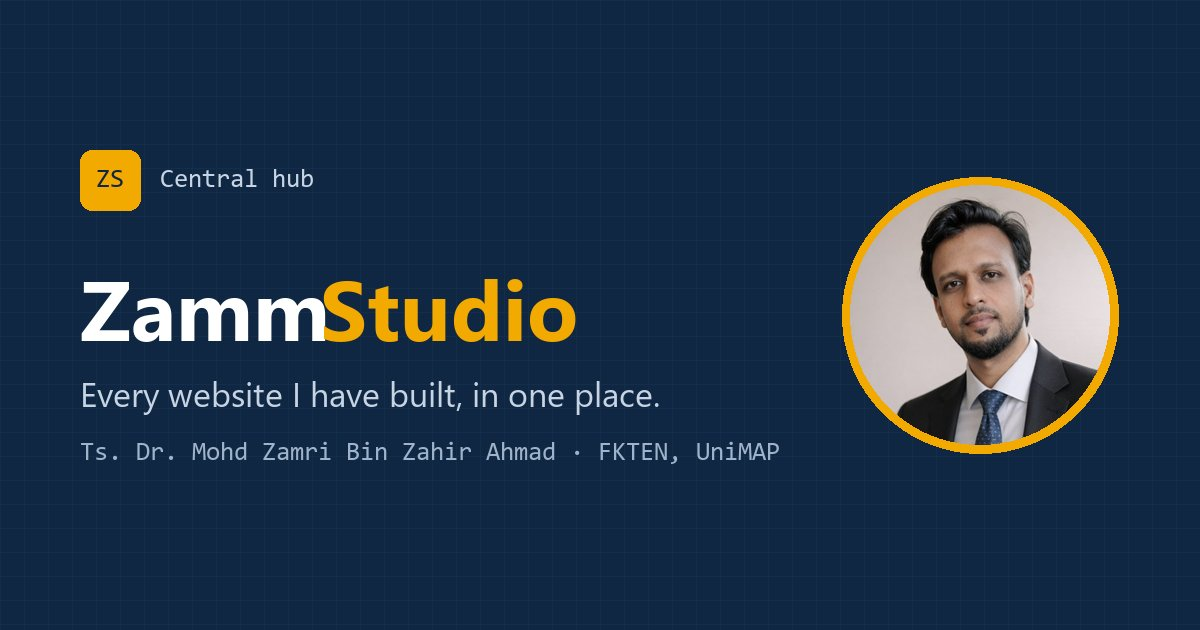
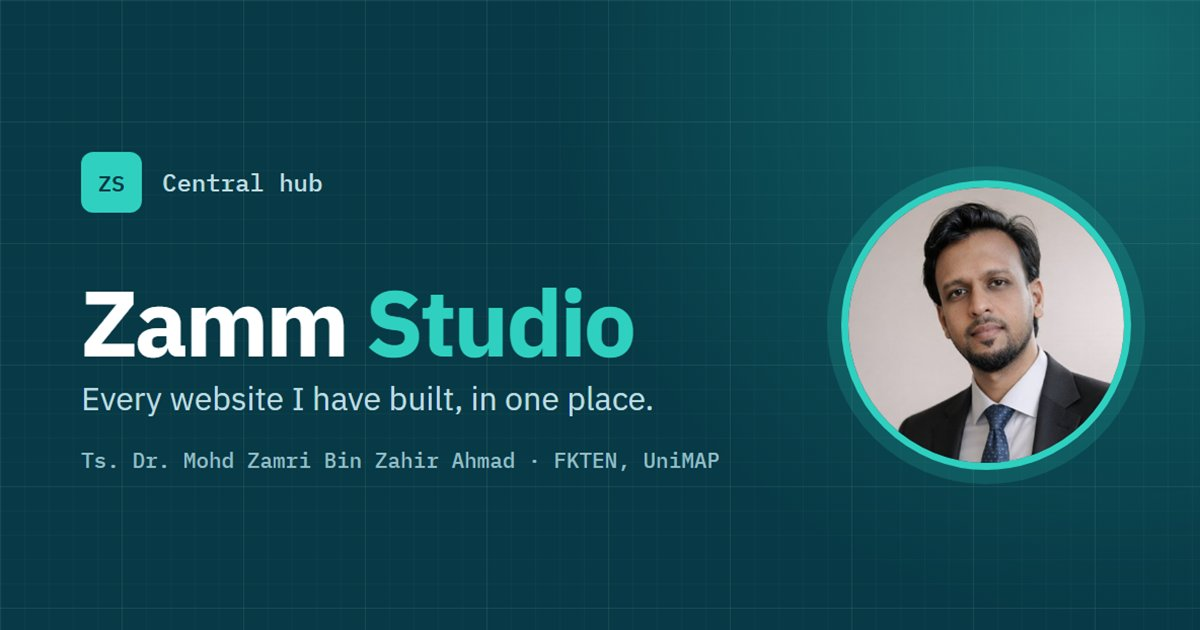
Teal-blue theme, add DPMS, FKTEN redesign and OSP sites
- Switch the hub from navy/amber to a teal-blue palette (light and dark),
  including favicon and social preview image
- Add DPMS FKTEN, FKTEN Website Redesign and OSP, with a new Prototypes
  category; refresh the NMK42003 screenshot
- Fix cards overflowing the screen on phones; keep search and sort on
  one row with category chips below; use dvh for the detail dialog

diff --git a/assets/css/style.css b/assets/css/style.css
@@ -1,12 +1,14 @@
-/* Zamm Studio — central hub styles (palette shared with aiworkshop2026) */
+/* Zamm Studio — central hub styles (teal-blue theme) */
 :root{
-  --ink:#0f2742; --ink-2:#17365a; --ink-3:#21456f;
-  --paper:#f4f7fa; --panel:#ffffff; --panel-2:#f8fafc; --line:#d7e0ea;
-  --text:#172033; --muted:#526078;
-  --blue:#1a5fd0; --blue-soft:#e3ecfb;
-  --amber:#f2a900; --amber-ink:#8a5a00; --amber-soft:#fdf1d3;
-  --shadow:0 1px 2px rgba(15,39,66,.06),0 8px 24px rgba(15,39,66,.08);
-  --shadow-lift:0 2px 4px rgba(15,39,66,.08),0 18px 40px rgba(15,39,66,.16);
+  --ink:#073a46; --ink-2:#0b4a58; --ink-3:#10606f;
+  --paper:#f1f7f8; --panel:#ffffff; --panel-2:#f6fafb; --line:#d2e3e6;
+  --text:#12262c; --muted:#4b6670;
+  --blue:#0a6f8c; --blue-soft:#ddf0f4;
+  --accent:#2fd0c0; --accent-hover:#5fdfd2; --accent-ink:#0a7a73; --accent-soft:#d6f4f0;
+  --focus:#0d9488;
+  --on-dark:#eaf6f7; --on-dark-2:#bfdbe0; --on-dark-3:#93bcc4;
+  --shadow:0 1px 2px rgba(7,58,70,.06),0 8px 24px rgba(7,58,70,.08);
+  --shadow-lift:0 2px 4px rgba(7,58,70,.08),0 18px 40px rgba(7,58,70,.16);
   --radius:14px; --radius-l:20px;
   --sans:'IBM Plex Sans',system-ui,-apple-system,'Segoe UI',Roboto,Arial,sans-serif;
   --mono:'IBM Plex Mono',ui-monospace,Menlo,Consolas,monospace;
@@ -15,35 +17,38 @@
   --c-events:#b25a00;   --c-events-bg:#fdf1d3;
   --c-systems:#188038;  --c-systems-bg:#e2f2e7;
   --c-tools:#7b3fc4;    --c-tools-bg:#efe6fb;
-  --c-profile:#0e7c86;  --c-profile-bg:#dff3f4;
+  --c-prototypes:#b4235a; --c-prototypes-bg:#fbe4ee;
+  --c-profile:#0a7a73;  --c-profile-bg:#d6f4f0;
   color-scheme:light;
 }
 @media (prefers-color-scheme:dark){
   :root:not([data-theme="light"]){
-    --paper:#0b1522; --panel:#122033; --panel-2:#0f1b2b; --line:#24364d;
-    --text:#e5ecf5; --muted:#9db0c6;
-    --blue:#7fb0ff; --blue-soft:#17304f; --amber-soft:#3a2d0c;
+    --paper:#06181d; --panel:#0c252c; --panel-2:#091e24; --line:#1b3c44;
+    --text:#e2f0f2; --muted:#95b3ba;
+    --blue:#6fd3e6; --blue-soft:#0f3640; --accent-soft:#0d3a38; --accent-ink:#2fd0c0; --focus:#2fd0c0;
     --shadow:0 1px 2px rgba(0,0,0,.3),0 8px 24px rgba(0,0,0,.3);
     --shadow-lift:0 2px 4px rgba(0,0,0,.35),0 18px 40px rgba(0,0,0,.5);
     --c-teaching:#8db8ff; --c-teaching-bg:#172d4d;
     --c-events:#ffc453;   --c-events-bg:#3a2d0c;
     --c-systems:#6fd08f;  --c-systems-bg:#133322;
     --c-tools:#c7a4ff;    --c-tools-bg:#2a1c45;
-    --c-profile:#6fd6de;  --c-profile-bg:#113438;
+    --c-prototypes:#ff94bd; --c-prototypes-bg:#3d1628;
+    --c-profile:#5fe3d5;  --c-profile-bg:#0d3a38;
     color-scheme:dark;
   }
 }
 :root[data-theme="dark"]{
-  --paper:#0b1522; --panel:#122033; --panel-2:#0f1b2b; --line:#24364d;
-  --text:#e5ecf5; --muted:#9db0c6;
-  --blue:#7fb0ff; --blue-soft:#17304f; --amber-soft:#3a2d0c;
+  --paper:#06181d; --panel:#0c252c; --panel-2:#091e24; --line:#1b3c44;
+  --text:#e2f0f2; --muted:#95b3ba;
+  --blue:#6fd3e6; --blue-soft:#0f3640; --accent-soft:#0d3a38; --accent-ink:#2fd0c0; --focus:#2fd0c0;
   --shadow:0 1px 2px rgba(0,0,0,.3),0 8px 24px rgba(0,0,0,.3);
   --shadow-lift:0 2px 4px rgba(0,0,0,.35),0 18px 40px rgba(0,0,0,.5);
   --c-teaching:#8db8ff; --c-teaching-bg:#172d4d;
   --c-events:#ffc453;   --c-events-bg:#3a2d0c;
   --c-systems:#6fd08f;  --c-systems-bg:#133322;
   --c-tools:#c7a4ff;    --c-tools-bg:#2a1c45;
-  --c-profile:#6fd6de;  --c-profile-bg:#113438;
+  --c-prototypes:#ff94bd; --c-prototypes-bg:#3d1628;
+  --c-profile:#5fe3d5;  --c-profile-bg:#0d3a38;
   color-scheme:dark;
 }
 
@@ -52,22 +57,22 @@ html{scroll-behavior:smooth;scroll-padding-top:80px}
 body{margin:0;font-family:var(--sans);color:var(--text);background:var(--paper);line-height:1.6;font-size:17px;-webkit-font-smoothing:antialiased;-webkit-text-size-adjust:100%;text-size-adjust:100%}
 img{max-width:100%;display:block}
 a{color:var(--blue)}
-a:focus-visible,button:focus-visible,input:focus-visible,select:focus-visible,.card:focus-visible{outline:3px solid var(--amber);outline-offset:2px}
+a:focus-visible,button:focus-visible,input:focus-visible,select:focus-visible,.card:focus-visible{outline:3px solid var(--focus);outline-offset:2px}
 kbd{font-family:var(--mono);background:var(--panel);border:1px solid var(--line);border-bottom-width:2px;border-radius:5px;padding:0 6px;font-size:.85em}
 h1,h2,h3{letter-spacing:-.02em;line-height:1.15}
 .wrap{max-width:1180px;margin:0 auto;padding:0 28px}
 .sr-only{position:absolute;width:1px;height:1px;overflow:hidden;clip:rect(0 0 0 0);white-space:nowrap}
-.skip{position:absolute;left:-999px;top:8px;z-index:100;background:var(--amber);color:var(--ink);padding:8px 14px;border-radius:8px;font-weight:600}
+.skip{position:absolute;left:-999px;top:8px;z-index:100;background:var(--accent);color:var(--ink);padding:8px 14px;border-radius:8px;font-weight:600}
 .skip:focus{left:8px}
 
 /* Top bar */
-.topbar{position:sticky;top:0;z-index:50;background:rgba(15,39,66,.96);-webkit-backdrop-filter:blur(8px);backdrop-filter:blur(8px);color:#fff;border-bottom:1px solid rgba(255,255,255,.06)}
+.topbar{position:sticky;top:0;z-index:50;background:rgba(7,58,70,.96);-webkit-backdrop-filter:blur(8px);backdrop-filter:blur(8px);color:#fff;border-bottom:1px solid rgba(255,255,255,.06)}
 .topbar .wrap{display:flex;align-items:center;gap:20px;height:64px}
 .brand{display:flex;align-items:center;gap:12px;color:#fff;text-decoration:none;font-weight:500;font-size:18px;letter-spacing:-.01em}
-.brand b{font-weight:700;color:var(--amber)}
-.brand-mark{width:36px;height:36px;border-radius:9px;background:var(--amber);display:grid;place-items:center;color:var(--ink);font-family:var(--mono);font-weight:600;font-size:14px;letter-spacing:.02em}
+.brand b{font-weight:700;color:var(--accent)}
+.brand-mark{width:36px;height:36px;border-radius:9px;background:var(--accent);display:grid;place-items:center;color:var(--ink);font-family:var(--mono);font-weight:600;font-size:14px;letter-spacing:.02em}
 .nav{margin-left:auto;display:flex;gap:4px}
-.nav a{color:#d6e2f0;text-decoration:none;padding:8px 14px;border-radius:8px;font-size:15px;font-weight:500;white-space:nowrap}
+.nav a{color:var(--on-dark-2);text-decoration:none;padding:8px 14px;border-radius:8px;font-size:15px;font-weight:500;white-space:nowrap}
 .nav a:hover{background:var(--ink-3);color:#fff}
 .icon-btn{display:inline-grid;place-items:center;width:38px;height:38px;border-radius:10px;border:1px solid rgba(255,255,255,.18);background:transparent;color:inherit;cursor:pointer;font-size:20px;line-height:1;padding:0}
 .icon-btn:hover{background:rgba(255,255,255,.08)}
@@ -80,27 +85,27 @@ h1,h2,h3{letter-spacing:-.02em;line-height:1.15}
 }
 
 /* Blueprint hero */
-.blueprint{background-color:var(--ink);background-image:linear-gradient(rgba(255,255,255,.05) 1px,transparent 1px),linear-gradient(90deg,rgba(255,255,255,.05) 1px,transparent 1px),linear-gradient(rgba(255,255,255,.025) 1px,transparent 1px),linear-gradient(90deg,rgba(255,255,255,.025) 1px,transparent 1px);background-size:120px 120px,120px 120px,24px 24px,24px 24px;color:#eef3f9}
+.blueprint{background-color:var(--ink);background-image:linear-gradient(rgba(255,255,255,.05) 1px,transparent 1px),linear-gradient(90deg,rgba(255,255,255,.05) 1px,transparent 1px),linear-gradient(rgba(255,255,255,.025) 1px,transparent 1px),linear-gradient(90deg,rgba(255,255,255,.025) 1px,transparent 1px);background-size:120px 120px,120px 120px,24px 24px,24px 24px;color:var(--on-dark)}
 .hero{padding:72px 0 80px;position:relative;overflow:hidden}
-.hero::after{content:"";position:absolute;right:-160px;top:-160px;width:520px;height:520px;border-radius:50%;background:radial-gradient(circle,rgba(242,169,0,.18),transparent 65%);pointer-events:none}
+.hero::after{content:"";position:absolute;right:-160px;top:-160px;width:520px;height:520px;border-radius:50%;background:radial-gradient(circle,rgba(47,208,192,.22),transparent 65%);pointer-events:none}
 .hero-grid{display:grid;grid-template-columns:1.35fr 1fr;gap:56px;align-items:center;position:relative;z-index:1}
-.eyebrow{display:inline-flex;align-items:center;gap:10px;margin:0 0 18px;padding:6px 14px;border:1px solid rgba(255,255,255,.18);border-radius:999px;font-family:var(--mono);font-size:13px;color:#c6d4e4;background:rgba(255,255,255,.04)}
+.eyebrow{display:inline-flex;align-items:center;gap:10px;margin:0 0 18px;padding:6px 14px;border:1px solid rgba(255,255,255,.18);border-radius:999px;font-family:var(--mono);font-size:13px;color:var(--on-dark-2);background:rgba(255,255,255,.04)}
 .dot{width:8px;height:8px;border-radius:50%;background:#3ddc84;box-shadow:0 0 0 0 rgba(61,220,132,.6);animation:pulse 2.2s infinite}
 @keyframes pulse{70%{box-shadow:0 0 0 8px rgba(61,220,132,0)}100%{box-shadow:0 0 0 0 rgba(61,220,132,0)}}
 .hero h1{font-size:clamp(36px,5.2vw,60px);margin:0 0 18px;font-weight:700;color:#fff}
-.hero h1 em{font-style:normal;color:var(--amber)}
-.lede{margin:0 0 28px;max-width:56ch;color:#c6d4e4;font-size:19px}
+.hero h1 em{font-style:normal;color:var(--accent)}
+.lede{margin:0 0 28px;max-width:56ch;color:var(--on-dark-2);font-size:19px}
 .hero-actions{display:flex;flex-wrap:wrap;gap:12px}
 .stats{display:flex;flex-wrap:wrap;gap:12px;margin:36px 0 0;padding:0}
 .stats div{min-width:120px;padding:12px 18px;border:1px solid rgba(255,255,255,.14);border-radius:12px;background:rgba(255,255,255,.04)}
-.stats dt{font-family:var(--mono);font-size:12px;text-transform:uppercase;letter-spacing:.08em;color:#9fb3ca}
+.stats dt{font-family:var(--mono);font-size:12px;text-transform:uppercase;letter-spacing:.08em;color:var(--on-dark-3)}
 .stats dd{margin:2px 0 0;font-size:26px;font-weight:700;color:#fff}
 
 /* Buttons */
 .btn{display:inline-flex;align-items:center;justify-content:center;gap:10px;font:600 16px/1 var(--sans);padding:14px 22px;border-radius:10px;border:2px solid transparent;text-decoration:none;cursor:pointer;transition:transform .15s,background .15s,border-color .15s}
 .btn:active{transform:translateY(1px)}
-.btn-amber{background:var(--amber);color:var(--ink)}
-.btn-amber:hover{background:#ffba1f}
+.btn-accent{background:var(--accent);color:var(--ink)}
+.btn-accent:hover{background:var(--accent-hover)}
 .btn-ghost{border-color:rgba(255,255,255,.35);color:#fff;background:transparent}
 .btn-ghost:hover{background:rgba(255,255,255,.08)}
 .btn-line{background:var(--panel);border-color:var(--line);color:var(--text)}
@@ -109,18 +114,18 @@ h1,h2,h3{letter-spacing:-.02em;line-height:1.15}
 
 /* Profile card */
 .profile{background:rgba(255,255,255,.06);border:1px solid rgba(255,255,255,.14);border-radius:var(--radius-l);padding:28px;-webkit-backdrop-filter:blur(4px);backdrop-filter:blur(4px);display:flex;flex-direction:column;align-items:center;text-align:center}
-.profile-photo{width:148px;height:148px;border-radius:50%;object-fit:cover;border:4px solid var(--amber);box-shadow:0 0 0 8px rgba(242,169,0,.14)}
+.profile-photo{width:148px;height:148px;border-radius:50%;object-fit:cover;border:4px solid var(--accent);box-shadow:0 0 0 8px rgba(47,208,192,.18)}
 .profile-body{margin-top:18px}
-.profile-label{font-family:var(--mono);font-size:12px;text-transform:uppercase;letter-spacing:.1em;color:var(--amber)}
+.profile-label{font-family:var(--mono);font-size:12px;text-transform:uppercase;letter-spacing:.1em;color:var(--accent)}
 .profile h2{margin:6px 0 8px;font-size:22px;color:#fff}
-.profile p{margin:0;color:#c6d4e4;font-size:15px}
+.profile p{margin:0;color:var(--on-dark-2);font-size:15px}
 .chips-inline{list-style:none;display:flex;flex-wrap:wrap;justify-content:center;gap:6px;padding:0;margin:16px 0 0}
-.chips-inline li{font-size:12.5px;padding:4px 10px;border-radius:999px;background:rgba(255,255,255,.08);color:#dbe6f2}
+.chips-inline li{font-size:12.5px;padding:4px 10px;border-radius:999px;background:rgba(255,255,255,.08);color:var(--on-dark)}
 
 /* Section heads */
-.kicker{margin:0 0 6px;font-family:var(--mono);font-size:13px;text-transform:uppercase;letter-spacing:.1em;color:var(--amber-ink)}
-:root[data-theme="dark"] .kicker{color:var(--amber)}
-@media (prefers-color-scheme:dark){:root:not([data-theme="light"]) .kicker{color:var(--amber)}}
+.kicker{margin:0 0 6px;font-family:var(--mono);font-size:13px;text-transform:uppercase;letter-spacing:.1em;color:var(--accent-ink)}
+:root[data-theme="dark"] .kicker{color:var(--accent)}
+@media (prefers-color-scheme:dark){:root:not([data-theme="light"]) .kicker{color:var(--accent)}}
 .sites{padding:64px 0 72px}
 .section-head{display:flex;justify-content:space-between;align-items:flex-end;gap:16px;flex-wrap:wrap;margin-bottom:22px}
 .section-head h2{margin:0;font-size:clamp(28px,3.4vw,38px)}
@@ -131,16 +136,16 @@ h1,h2,h3{letter-spacing:-.02em;line-height:1.15}
 .search{flex:1 1 260px;display:flex;align-items:center;gap:10px;padding:0 14px;border:1px solid var(--line);border-radius:10px;background:var(--panel-2);color:var(--muted)}
 .search:focus-within{border-color:var(--blue)}
 .search input{flex:1;min-width:0;border:0;background:transparent;font:inherit;font-size:16px;color:var(--text);padding:11px 0;outline:none}
-.filters{display:flex;flex-wrap:wrap;gap:6px}
+.filters{display:flex;flex-wrap:wrap;gap:6px;order:3;flex-basis:100%}
 .chip{display:inline-flex;align-items:center;gap:7px;font:500 14px/1 var(--sans);padding:9px 13px;border-radius:999px;border:1px solid var(--line);background:var(--panel);color:var(--text);cursor:pointer;transition:background .15s,border-color .15s}
 .chip:hover{border-color:var(--muted)}
 .chip .n{font-family:var(--mono);font-size:12px;color:var(--muted)}
 .chip[aria-pressed="true"]{background:var(--ink);border-color:var(--ink);color:#fff}
-.chip[aria-pressed="true"] .n{color:var(--amber)}
-:root[data-theme="dark"] .chip[aria-pressed="true"]{background:var(--amber);border-color:var(--amber);color:var(--ink)}
+.chip[aria-pressed="true"] .n{color:var(--accent)}
+:root[data-theme="dark"] .chip[aria-pressed="true"]{background:var(--accent);border-color:var(--accent);color:var(--ink)}
 :root[data-theme="dark"] .chip[aria-pressed="true"] .n{color:var(--ink)}
 @media (prefers-color-scheme:dark){
-  :root:not([data-theme="light"]) .chip[aria-pressed="true"]{background:var(--amber);border-color:var(--amber);color:var(--ink)}
+  :root:not([data-theme="light"]) .chip[aria-pressed="true"]{background:var(--accent);border-color:var(--accent);color:var(--ink)}
   :root:not([data-theme="light"]) .chip[aria-pressed="true"] .n{color:var(--ink)}
 }
 .sort select{font:inherit;font-size:15px;padding:10px 12px;border-radius:10px;border:1px solid var(--line);background:var(--panel-2);color:var(--text);cursor:pointer}
@@ -148,6 +153,7 @@ h1,h2,h3{letter-spacing:-.02em;line-height:1.15}
 
 /* Cards */
 .grid{list-style:none;margin:0;padding:0;display:grid;grid-template-columns:repeat(auto-fill,minmax(320px,1fr));gap:22px}
+.grid > li{min-width:0}
 .card{position:relative;height:100%;display:flex;flex-direction:column;background:var(--panel);border:1px solid var(--line);border-radius:var(--radius);box-shadow:var(--shadow);overflow:hidden;cursor:pointer;transition:transform .2s,box-shadow .2s,border-color .2s;animation:rise .45s both}
 .card:hover{transform:translateY(-4px);box-shadow:var(--shadow-lift);border-color:var(--cc)}
 @keyframes rise{from{opacity:0;transform:translateY(12px)}to{opacity:1;transform:none}}
@@ -160,8 +166,8 @@ h1,h2,h3{letter-spacing:-.02em;line-height:1.15}
 .shot-img{aspect-ratio:16/10;overflow:hidden}
 .shot-img img{width:100%;height:100%;object-fit:cover;object-position:top;transition:transform .5s}
 .card:hover .shot-img img{transform:scale(1.04)}
-.peek{position:absolute;inset:28px 0 0;display:grid;place-items:center;background:rgba(15,39,66,.55);opacity:0;transition:opacity .2s}
-.peek span{font-weight:600;font-size:15px;color:var(--ink);background:var(--amber);padding:9px 16px;border-radius:999px;transform:translateY(6px);transition:transform .2s}
+.peek{position:absolute;inset:28px 0 0;display:grid;place-items:center;background:rgba(7,58,70,.6);opacity:0;transition:opacity .2s}
+.peek span{font-weight:600;font-size:15px;color:var(--ink);background:var(--accent);padding:9px 16px;border-radius:999px;transform:translateY(6px);transition:transform .2s}
 .card:hover .peek,.card:focus-visible .peek{opacity:1}
 .card:hover .peek span{transform:none}
 .card-body{padding:18px 20px 20px;display:flex;flex-direction:column;flex:1}
@@ -173,14 +179,14 @@ h1,h2,h3{letter-spacing:-.02em;line-height:1.15}
 .card-btn{all:unset;cursor:pointer;color:var(--text)}
 .card-btn::after{content:"";position:absolute;inset:0;z-index:1}
 .card-btn:focus-visible{outline:none}
-.card:has(.card-btn:focus-visible){outline:3px solid var(--amber);outline-offset:2px}
+.card:has(.card-btn:focus-visible){outline:3px solid var(--focus);outline-offset:2px}
 .card p{margin:0 0 14px;color:var(--muted);font-size:15px;line-height:1.5}
 .tags{display:flex;flex-wrap:wrap;gap:6px;margin:0;padding:0;list-style:none}
 .tags li{font-family:var(--mono);font-size:11.5px;padding:3px 8px;border-radius:6px;background:var(--panel-2);border:1px solid var(--line);color:var(--muted)}
 .card-foot{margin-top:auto;padding-top:16px;display:flex;align-items:center;gap:10px}
 .updated{font-size:13px;color:var(--muted)}
-.open-link{margin-left:auto;display:inline-flex;align-items:center;gap:6px;font-weight:600;font-size:14px;text-decoration:none;color:var(--ink);background:var(--amber);padding:8px 13px;border-radius:8px;position:relative;z-index:2}
-.open-link:hover{background:#ffba1f}
+.open-link{margin-left:auto;display:inline-flex;align-items:center;gap:6px;font-weight:600;font-size:14px;text-decoration:none;color:var(--ink);background:var(--accent);padding:8px 13px;border-radius:8px;position:relative;z-index:2}
+.open-link:hover{background:var(--accent-hover)}
 .empty{text-align:center;padding:48px 0;color:var(--muted)}
 
 /* Category colour bindings */
@@ -188,6 +194,7 @@ h1,h2,h3{letter-spacing:-.02em;line-height:1.15}
 [data-cat="Events"]{--cc:var(--c-events);--cbg:var(--c-events-bg)}
 [data-cat="Systems"]{--cc:var(--c-systems);--cbg:var(--c-systems-bg)}
 [data-cat="Tools"]{--cc:var(--c-tools);--cbg:var(--c-tools-bg)}
+[data-cat="Prototypes"]{--cc:var(--c-prototypes);--cbg:var(--c-prototypes-bg)}
 [data-cat="Profile"]{--cc:var(--c-profile);--cbg:var(--c-profile-bg)}
 
 /* About & contact */
@@ -196,14 +203,14 @@ h1,h2,h3{letter-spacing:-.02em;line-height:1.15}
 .about h2{margin:0 0 14px;font-size:clamp(26px,3vw,34px)}
 .about p{color:var(--muted);max-width:62ch}
 .facts{list-style:none;padding:0;margin:20px 0 0;display:grid;gap:10px}
-.facts li{padding:10px 14px;border-left:3px solid var(--amber);background:var(--panel-2);border-radius:0 8px 8px 0;font-size:15px;color:var(--muted)}
+.facts li{padding:10px 14px;border-left:3px solid var(--accent);background:var(--panel-2);border-radius:0 8px 8px 0;font-size:15px;color:var(--muted)}
 .facts strong{color:var(--text)}
 .links{list-style:none;padding:0;margin:0;display:grid;gap:10px}
 .links a{display:flex;align-items:center;gap:14px;padding:12px 14px;border:1px solid var(--line);border-radius:12px;text-decoration:none;color:var(--text);background:var(--panel-2);transition:border-color .15s,transform .15s}
 .links a:hover{border-color:var(--blue);transform:translateX(3px)}
 .links span:nth-child(2){display:flex;flex-direction:column;font-size:14px;color:var(--muted);min-width:0;overflow-wrap:anywhere}
 .links b{color:var(--text);font-size:15px}
-.li-ic{flex:none;width:38px;height:38px;border-radius:10px;display:grid;place-items:center;background:var(--ink);color:var(--amber);font-family:var(--mono);font-weight:600;font-size:13px}
+.li-ic{flex:none;width:38px;height:38px;border-radius:10px;display:grid;place-items:center;background:var(--ink);color:var(--accent);font-family:var(--mono);font-weight:600;font-size:13px}
 .ext{margin-left:auto;color:var(--muted)}
 
 /* Footer */
@@ -212,8 +219,8 @@ h1,h2,h3{letter-spacing:-.02em;line-height:1.15}
 .footer a{color:inherit}
 
 /* Detail dialog */
-.detail{width:min(1040px,calc(100vw - 32px));max-height:calc(100vh - 32px);padding:0;border:1px solid var(--line);border-radius:var(--radius-l);background:var(--panel);color:var(--text);box-shadow:0 30px 80px rgba(0,0,0,.35);overflow:auto}
-.detail::backdrop{background:rgba(8,20,36,.65);-webkit-backdrop-filter:blur(3px);backdrop-filter:blur(3px)}
+.detail{width:min(1040px,calc(100vw - 32px));max-height:calc(100vh - 32px);max-height:calc(100dvh - 32px);padding:0;border:1px solid var(--line);border-radius:var(--radius-l);background:var(--panel);color:var(--text);box-shadow:0 30px 80px rgba(0,0,0,.35);overflow:auto}
+.detail::backdrop{background:rgba(3,24,30,.68);-webkit-backdrop-filter:blur(3px);backdrop-filter:blur(3px)}
 .detail[open]{animation:pop .25s ease-out}
 @keyframes pop{from{opacity:0;transform:translateY(16px) scale(.98)}to{opacity:1;transform:none}}
 .d-shell{display:grid;grid-template-columns:1.1fr 1fr}
@@ -261,7 +268,7 @@ h1,h2,h3{letter-spacing:-.02em;line-height:1.15}
   .stats dd{font-size:21px}
   .profile{flex-direction:column;text-align:center;padding:22px}
   .chips-inline{justify-content:center}
-  .grid{grid-template-columns:1fr}
+  .grid{grid-template-columns:minmax(0,1fr)}
   .toolbar{padding:10px}
   .filters{flex-wrap:nowrap;overflow-x:auto;scrollbar-width:none;margin:0 -2px;padding:2px}
   .filters::-webkit-scrollbar{display:none}

diff --git a/assets/js/sites.js b/assets/js/sites.js
@@ -23,6 +23,69 @@ window.ZAMM_SITES = [
     updated: "2026-09-30"
   },
   {
+    id: "dpms",
+    name: "DPMS FKTEN: Digitalising the Design Project",
+    short: "DPMS FKTEN",
+    icon: "📊",
+    category: "Events",
+    tagline: "Presentations on the automated management ecosystem for the NMK31704 Design Project.",
+    description: "Front page for two talks on digitalising the Design Project at FKTEN: a briefing to the Dean on progress and the way forward to a faculty platform, and a Bulan Akademia 2026 sharing session on transforming course administration.",
+    features: [
+      "Briefing to the Dean (20 October 2026) and sharing session (14 October 2026)",
+      "Keyboard, click and fullscreen slide navigation",
+      "Click any screenshot to enlarge it",
+      "Static PDF backup of each deck"
+    ],
+    audience: "FKTEN management and academic staff",
+    tech: ["HTML", "CSS", "JavaScript"],
+    url: "https://zamrizahir88.github.io/dpms-fkten/",
+    repo: "dpms-fkten",
+    shot: "assets/img/shots/dpms.jpg",
+    updated: "2026-10-20"
+  },
+  {
+    id: "fkten",
+    name: "FKTEN Website Redesign",
+    short: "FKTEN Redesign",
+    icon: "🏛",
+    category: "Prototypes",
+    tagline: "A design prototype for a new Faculty of Electronic Engineering & Technology website.",
+    description: "A static redesign prototype for FKTEN, UniMAP, built from the content of the current faculty site. It shows a new homepage, About, Programmes and Contact pages, and a template for programme pages, ready to be converted to PHP/MySQL.",
+    features: [
+      "New homepage: programmes from Diploma to PhD, research centres, labs and news",
+      "About, Programmes, Contact and a reusable programme-page template",
+      "Shared header and footer, tabs, accordions and animations",
+      "Bilingual EN/BM switch and enquiry form (visual only for now)"
+    ],
+    audience: "FKTEN management and web team",
+    tech: ["HTML", "CSS", "JavaScript"],
+    url: "https://zamrizahir88.github.io/fkten/",
+    repo: "fkten",
+    shot: "assets/img/shots/fkten.jpg",
+    updated: "2026-10-14"
+  },
+  {
+    id: "osp",
+    name: "One Stop Physiotherapy (OSP) Changlun",
+    short: "OSP Physiotherapy",
+    icon: "🩺",
+    category: "Prototypes",
+    tagline: "A 16-page website mock-up for a physiotherapy centre in Changlun, Kedah.",
+    description: "A client-review mock-up for One Stop Physiotherapy. It covers services, conditions treated, home physiotherapy, sports and corporate packages, the team, reviews and FAQs, in a clean medical style built on the OSP brand's teal palette.",
+    features: [
+      "Interactive “Where does it hurt?” body map on the home page",
+      "Live opening-hours status and one-tap WhatsApp booking",
+      "16 pages generated from shared layout templates",
+      "Placeholder content clearly flagged for the client to confirm"
+    ],
+    audience: "Clinic owner (client review)",
+    tech: ["HTML", "CSS", "JavaScript", "Node build script"],
+    url: "https://zamrizahir88.github.io/OSP/",
+    repo: "OSP",
+    shot: "assets/img/shots/osp.jpg",
+    updated: "2026-10-18"
+  },
+  {
     id: "nmk42003",
     name: "NMK42003 Instrumentation",
     short: "NMK42003",

diff --git a/index.html b/index.html
@@ -8,7 +8,7 @@
 <meta property="og:title" content="Zamm Studio">
 <meta property="og:description" content="Every website and web system by Ts. Dr. Mohd Zamri Bin Zahir Ahmad, in one place.">
 <meta property="og:image" content="https://zamrizahir88.github.io/zammstudio/assets/img/og.jpg">
-<meta name="theme-color" content="#0f2742">
+<meta name="theme-color" content="#073a46">
 <link rel="icon" href="assets/img/favicon.svg" type="image/svg+xml">
 <link rel="preconnect" href="https://fonts.googleapis.com">
 <link rel="preconnect" href="https://fonts.gstatic.com" crossorigin>
@@ -41,17 +41,17 @@
   <section class="hero blueprint">
     <div class="wrap hero-grid">
       <div class="hero-copy">
-        <p class="eyebrow"><span class="dot" aria-hidden="true"></span> Central hub · <span id="heroCount">9</span> live websites</p>
+        <p class="eyebrow"><span class="dot" aria-hidden="true"></span> Central hub · <span id="heroCount">12</span> live websites</p>
         <h1>Everything I've built for the web, <em>in one place.</em></h1>
-        <p class="lede">Course sites, workshop platforms, judging and monitoring systems, and teaching tools, all made at Zamm Studio. Pick one to see what it does, then open it in a new tab.</p>
+        <p class="lede">Course sites, workshops and talks, judging and monitoring systems, teaching tools and design prototypes, all made at Zamm Studio. Pick one to see what it does, then open it in a new tab.</p>
         <div class="hero-actions">
-          <a class="btn btn-amber" href="#sites">Browse websites
+          <a class="btn btn-accent" href="#sites">Browse websites
             <svg width="18" height="18" viewBox="0 0 24 24" fill="none" stroke="currentColor" stroke-width="2.2" aria-hidden="true"><path d="M12 5v14M5 12l7 7 7-7"/></svg></a>
           <a class="btn btn-ghost" href="https://zamrizahir88.github.io/cv/main.html" target="_blank" rel="noopener">View my CV ↗</a>
         </div>
         <dl class="stats">
-          <div><dt>Websites</dt><dd id="statSites">9</dd></div>
-          <div><dt>Categories</dt><dd id="statCats">5</dd></div>
+          <div><dt>Websites</dt><dd id="statSites">12</dd></div>
+          <div><dt>Categories</dt><dd id="statCats">6</dd></div>
           <div><dt>Last update</dt><dd id="statLatest">—</dd></div>
         </dl>
       </div>
@@ -167,7 +167,7 @@
         <div class="full"><dt>Built with</dt><dd id="dTech" class="tags"></dd></div>
       </dl>
       <div class="d-actions">
-        <a class="btn btn-amber" id="dOpen" target="_blank" rel="noopener">Open website <span aria-hidden="true">↗</span></a>
+        <a class="btn btn-accent" id="dOpen" target="_blank" rel="noopener">Open website <span aria-hidden="true">↗</span></a>
         <a class="btn btn-line" id="dSrc" target="_blank" rel="noopener">Source code <span aria-hidden="true">↗</span></a>
         <button class="btn btn-line" id="dCopy" type="button">Copy link</button>
       </div>

diff --git a/assets/js/app.js b/assets/js/app.js
@@ -4,7 +4,7 @@
 
   const SITES = window.ZAMM_SITES || [];
   const GH_USER = "zamrizahir88";
-  const CATS = ["Teaching", "Events", "Systems", "Tools", "Profile"];
+  const CATS = ["Teaching", "Events", "Systems", "Tools", "Prototypes", "Profile"];
   const $ = (s) => document.querySelector(s);
   const esc = (s) => String(s).replace(/[&<>"']/g, (c) => ({ "&": "&amp;", "<": "&lt;", ">": "&gt;", '"': "&quot;", "'": "&#39;" }[c]));
 
